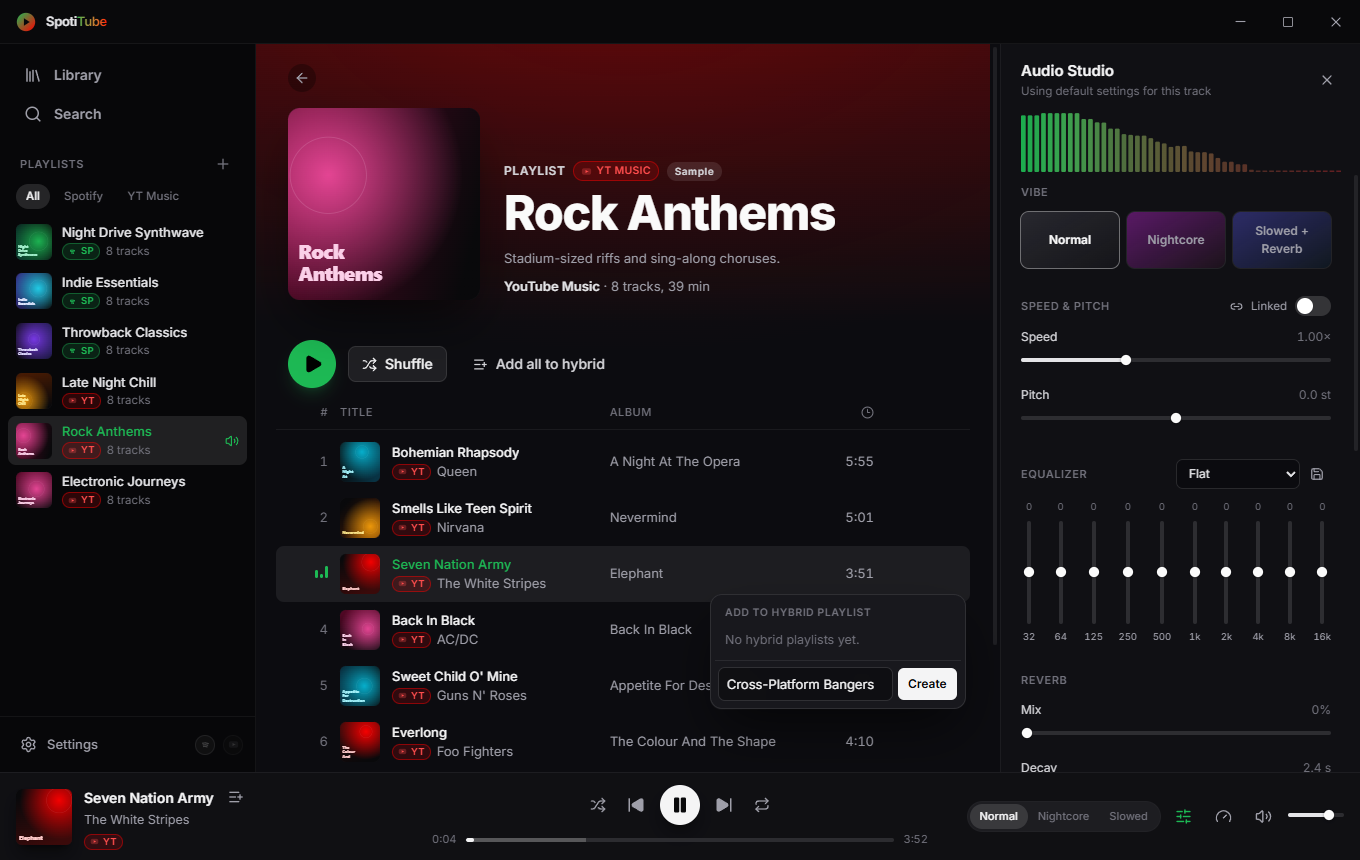
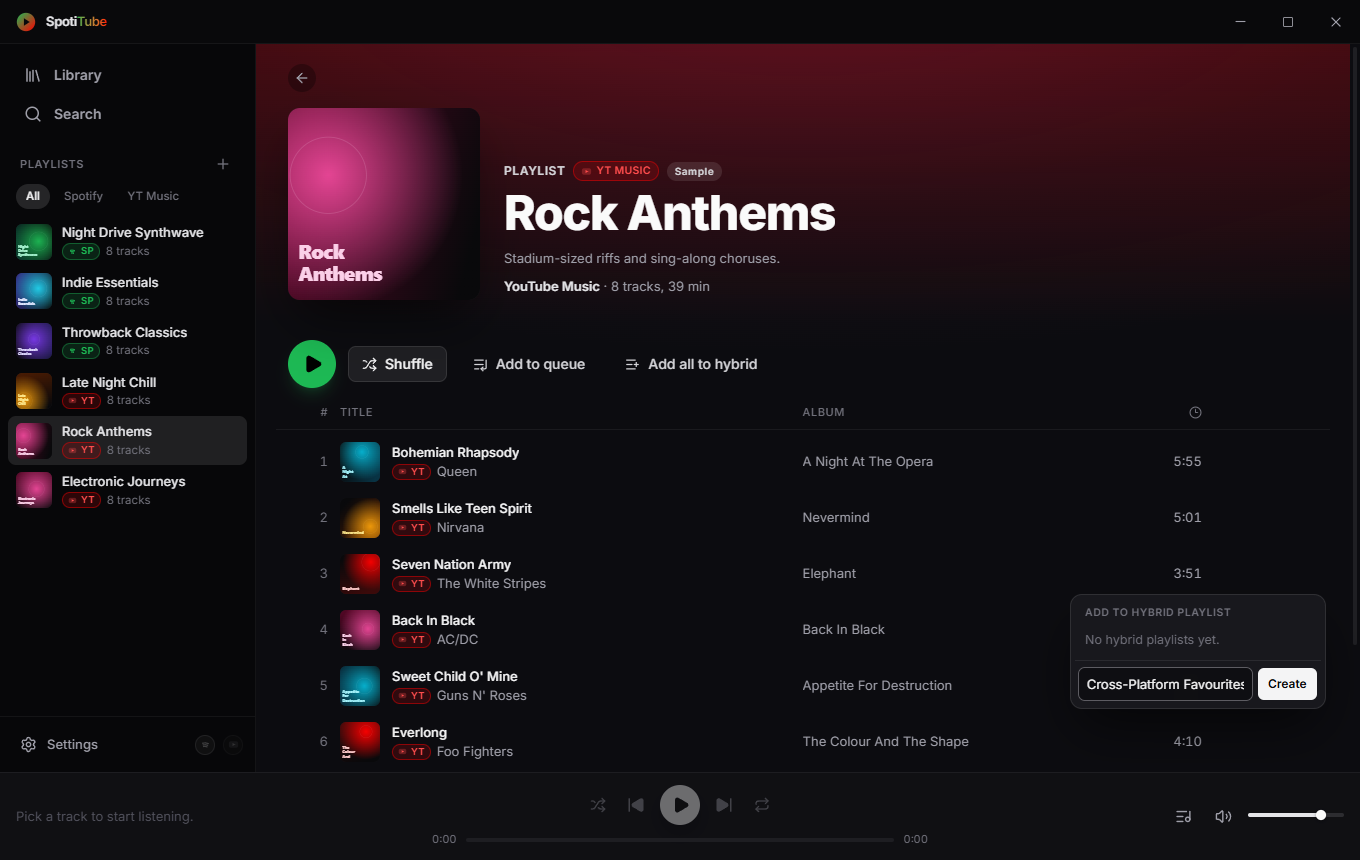
docs: queue, taskbar controls and fresh screenshots on the landing page

diff --git a/README.md b/README.md
@@ -5,7 +5,7 @@
 <h1 align="center">SpotiTube</h1>
 
 <p align="center">
-  <b>Your Spotify and YouTube Music libraries in one desktop player — with a real-time audio studio built in.</b>
+  <b>Your Spotify and YouTube Music libraries in one desktop player — with a queue you're in charge of.</b>
 </p>
 
 <p align="center">
@@ -21,7 +21,7 @@
 </p>
 
 <p align="center">
-  <img src="assets/library.png" alt="SpotiTube library with Spotify and YouTube Music playlists side by side and the Audio Studio open" />
+  <img src="assets/library.png" alt="SpotiTube library with Spotify and YouTube Music playlists, the queue open on the right and the YouTube player docked in the sidebar" />
 </p>
 
 ---
@@ -61,33 +61,40 @@ colour-coded badge, so you always know where it came from.
 | --- | --- |
 | ![Spotify and YouTube Music playlists in parallel columns](assets/split-view.png) | ![Adding a track to a new hybrid playlist](assets/hybrid-playlists.png) |
 
-## Make it sound the way you like
+## Your queue, your rules
 
-The **Audio Studio** is a real-time effects rack for whatever is playing:
-
-- **Nightcore** and **Slowed + Reverb** in one click
-- **Speed** from 0.5× to 2× — keep the pitch, or let it follow like a turntable
-- **Pitch shift** of ±12 semitones, independent of speed
-- **10-band equalizer** with presets (Bass Boost, Vocal, Electronic, …) and your own
-- **Reverb** with adjustable size, pre-delay and damping
-- **A-B loop** to repeat any part of a song — great for practising
-- **Per-track memory**: every track remembers its own EQ, speed, pitch and loop
-
-<p align="center">
-  <img src="assets/audio-studio.png" alt="Audio Studio with Slowed + Reverb, a Bass Boost EQ curve and an A-B loop" />
-</p>
-
-> **Good to know:** effects need direct access to the audio stream. YouTube currently limits that for apps, so
-> tracks often play through **YouTube's official player** instead (shown in a small window). Speed, A-B loops and
-> version picking still work there. EQ, pitch and reverb switch back on automatically whenever a direct stream is
-> available, and your settings are kept until then.
+<table>
+  <tr>
+    <td width="55%" valign="top">
+      <ul>
+        <li><b>Play next</b> or <b>Add to queue</b> on any track: right-click it, or use the <b>⋯</b> button</li>
+        <li>Mix tracks from Spotify and YouTube Music in the same queue</li>
+        <li><b>Drag &amp; drop</b> to reorder, or <code>Alt</code> + <code>↑</code> / <code>↓</code></li>
+        <li>Remove single tracks, clear what you queued, or clear everything</li>
+        <li>Double-click any entry to jump straight to it</li>
+        <li>Your picks play before the rest of the playlist, and shuffle leaves them where they are</li>
+        <li>Swap the playing track for a live, remix or slowed version with <b>Change version</b></li>
+      </ul>
+    </td>
+    <td width="45%" valign="top">
+      <img src="assets/queue.png" alt="Queue panel with the playing track and reorderable upcoming tracks" />
+    </td>
+  </tr>
+</table>
 
 ## Feels like a native app
 
-- Frameless, dark window designed for OLED screens, with a glow that follows the album art
+- **Taskbar controls**: hover over SpotiTube in the Windows taskbar to skip or pause, just like Spotify. On macOS
+  the same controls are in the Dock menu.
+- The current song appears in the window title, so you see it in the taskbar and when switching apps
 - Media keys, system media controls and a tray menu
-- Keyboard shortcuts for everything: `Space`, `←` `→`, `Ctrl+F`, `Ctrl+E`, …
+- Frameless, dark window designed for OLED screens, with a glow that follows the album art
+- Keyboard shortcuts for everything: `Space`, `←` `→`, `Ctrl+F`, `Ctrl+E` (queue), …
 - **Updates itself**: new versions download in the background and install with one click
+
+> **Good to know:** YouTube currently doesn't let apps stream complete tracks directly, so most tracks play through
+> **YouTube's official player**. It must stay visible, but you can make it compact, move it to any corner, or dock it
+> in the sidebar where it covers nothing.
 
 ## Get started in a minute
 
@@ -130,10 +137,11 @@ artist, same length, and no covers or remixes unless you ask for one. You can al
 </details>
 
 <details>
-<summary><b>Why are EQ and pitch sometimes greyed out?</b></summary>
+<summary><b>Why is there a small YouTube player?</b></summary>
 
-They need a direct audio stream, which YouTube currently restricts for apps. In that case SpotiTube plays the track
-through YouTube's official player so it never cuts out. SpotiTube does not try to get around YouTube's protections.
+YouTube currently doesn't let apps stream complete tracks directly, so SpotiTube plays them through YouTube's
+official player, which never cuts out. SpotiTube does not try to get around YouTube's protections. YouTube requires
+the player to stay visible, but you can make it compact, move it to any corner, or dock it in the sidebar.
 </details>
 
 <details>
@@ -154,8 +162,8 @@ then the app links you to the new download instead.
 <details>
 <summary><b>Something doesn't play or sounds wrong.</b></summary>
 
-Open the **Audio Studio**, go to **Stream source** and pick another version of the track. SpotiTube remembers your
-choice. If a problem persists, please describe it in a new issue in this repository.
+Open the **queue** and use **Change version** under the playing track to pick another upload. SpotiTube remembers
+your choice. If a problem persists, please describe it in a new issue in this repository.
 </details>
 
 ---
